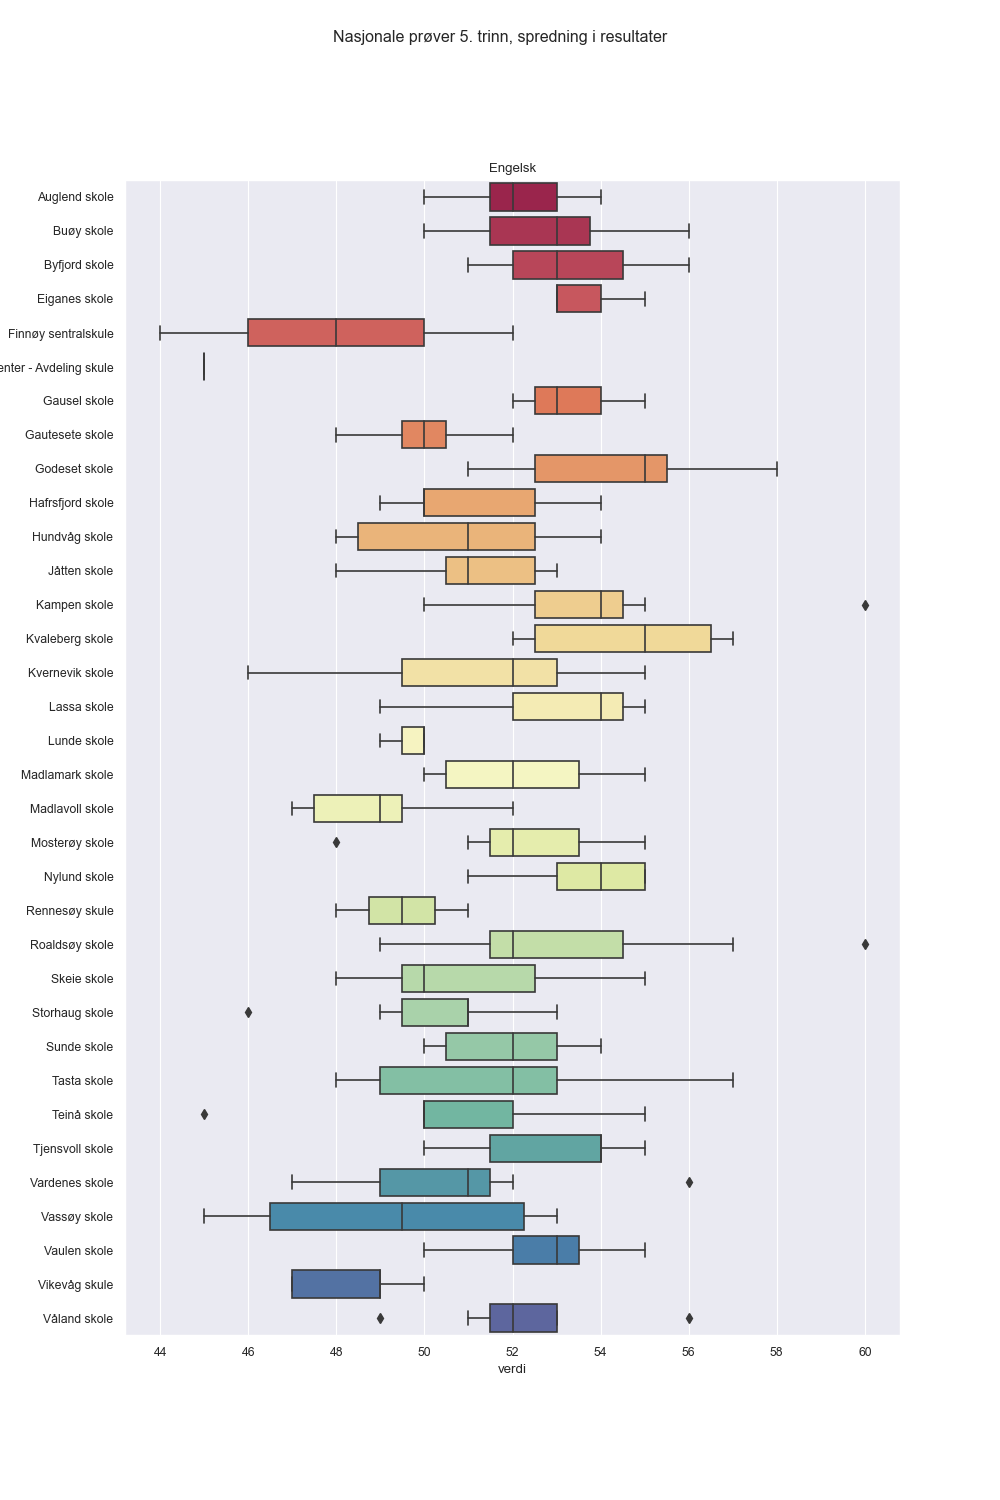
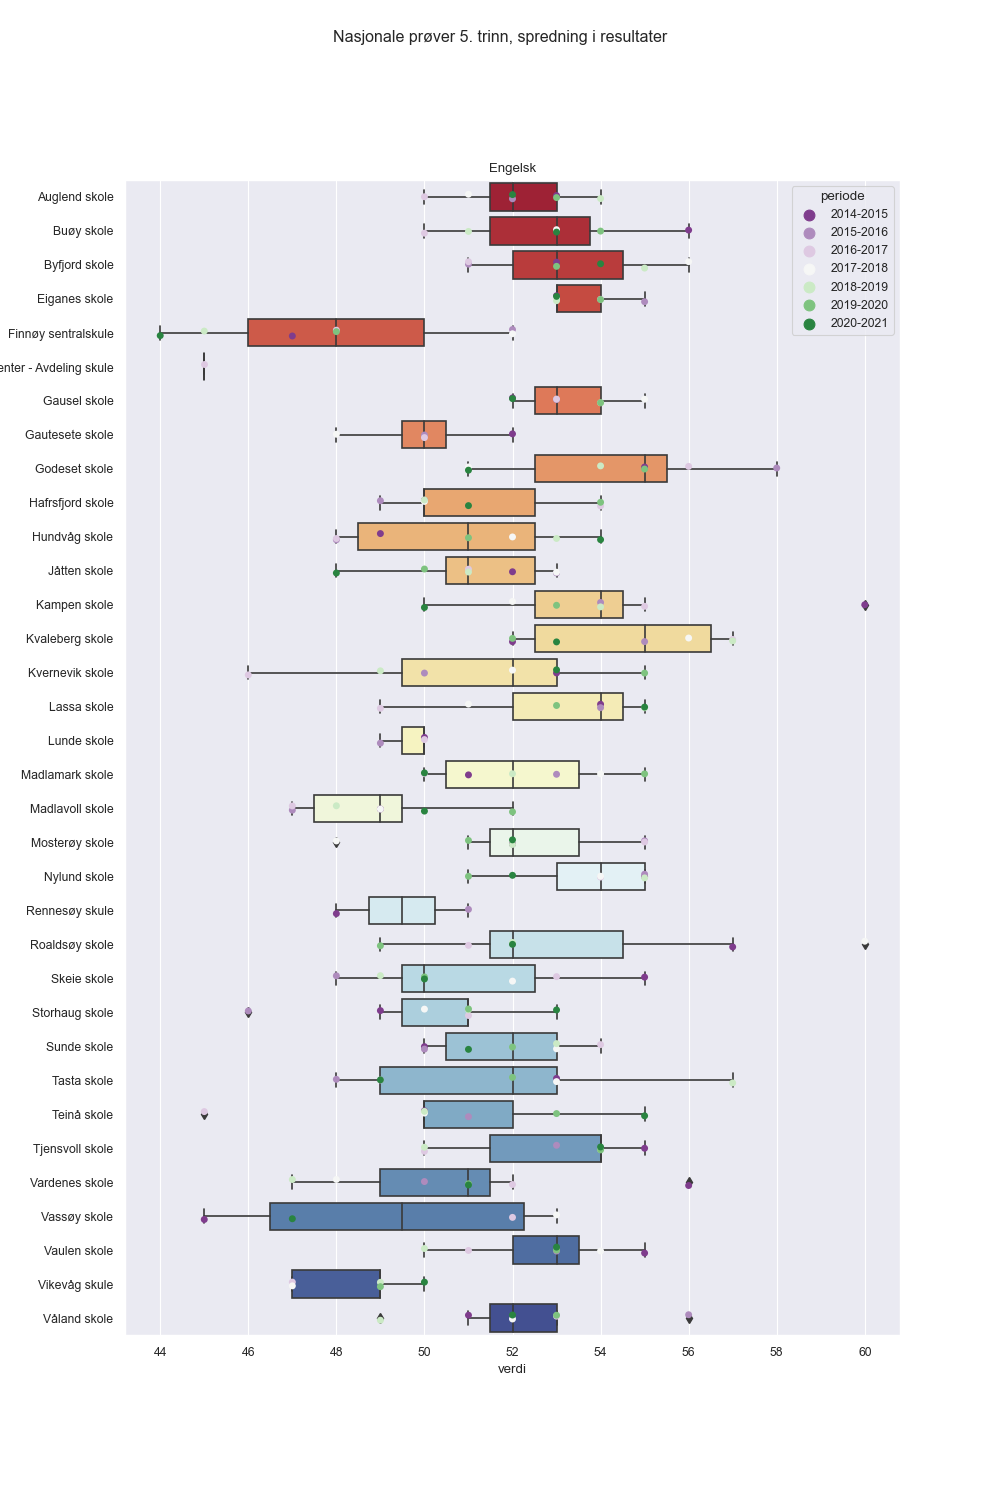
Add stripplot for each boxplot

diff --git a/script.py b/script.py
@@ -34,22 +34,43 @@ sns.set_palette("PiYG")
 # calculate and print boxplots to files
 fig, axes = plt.subplots(figsize=(10, 15))
 fig.suptitle("Nasjonale prøver 5. trinn, spredning i resultater")
-sns.boxplot(data=femte_trinn_engelsk, x="verdi", y="enhetsnavn", palette="Spectral")
+sns.boxplot(data=femte_trinn_engelsk, x="verdi", y="enhetsnavn", palette="RdYlBu")
+sns.stripplot(
+    data=femte_trinn_engelsk,
+    x="verdi",
+    y="enhetsnavn",
+    palette="PRGn",
+    hue="periode",
+)
 axes.set_title("Engelsk")
 plt.savefig("plots/boxplot_femte_trinn_engelsk.png")
 
 fig, axes = plt.subplots(figsize=(10, 15))
 fig.suptitle("Nasjonale prøver 5. trinn, spredning i resultater")
-sns.boxplot(data=femte_trinn_lesing, x="verdi", y="enhetsnavn", palette="Spectral")
+sns.boxplot(data=femte_trinn_lesing, x="verdi", y="enhetsnavn", palette="RdYlBu")
+sns.stripplot(
+    data=femte_trinn_lesing,
+    x="verdi",
+    y="enhetsnavn",
+    palette="PRGn",
+    hue="periode",
+)
 axes.set_title("Lesing")
 plt.savefig("plots/boxplot_femte_trinn_lesing.png")
 
 fig, axes = plt.subplots(figsize=(10, 15))
 fig.suptitle("Nasjonale prøver 5. trinn, spredning i resultater")
-sns.boxplot(data=femte_trinn_regning, x="verdi", y="enhetsnavn", palette="Spectral")
+sns.boxplot(data=femte_trinn_regning, x="verdi", y="enhetsnavn", palette="RdYlBu")
+sns.stripplot(
+    data=femte_trinn_regning,
+    x="verdi",
+    y="enhetsnavn",
+    palette="PRGn",
+    hue="periode",
+)
 axes.set_title("Regning")
 plt.savefig("plots/boxplot_femte_trinn_regning.png")
-sns.despine(offset=10, trim=True)
+# sns.despine(offset=10, trim=True)
 
 
 plt.show()
